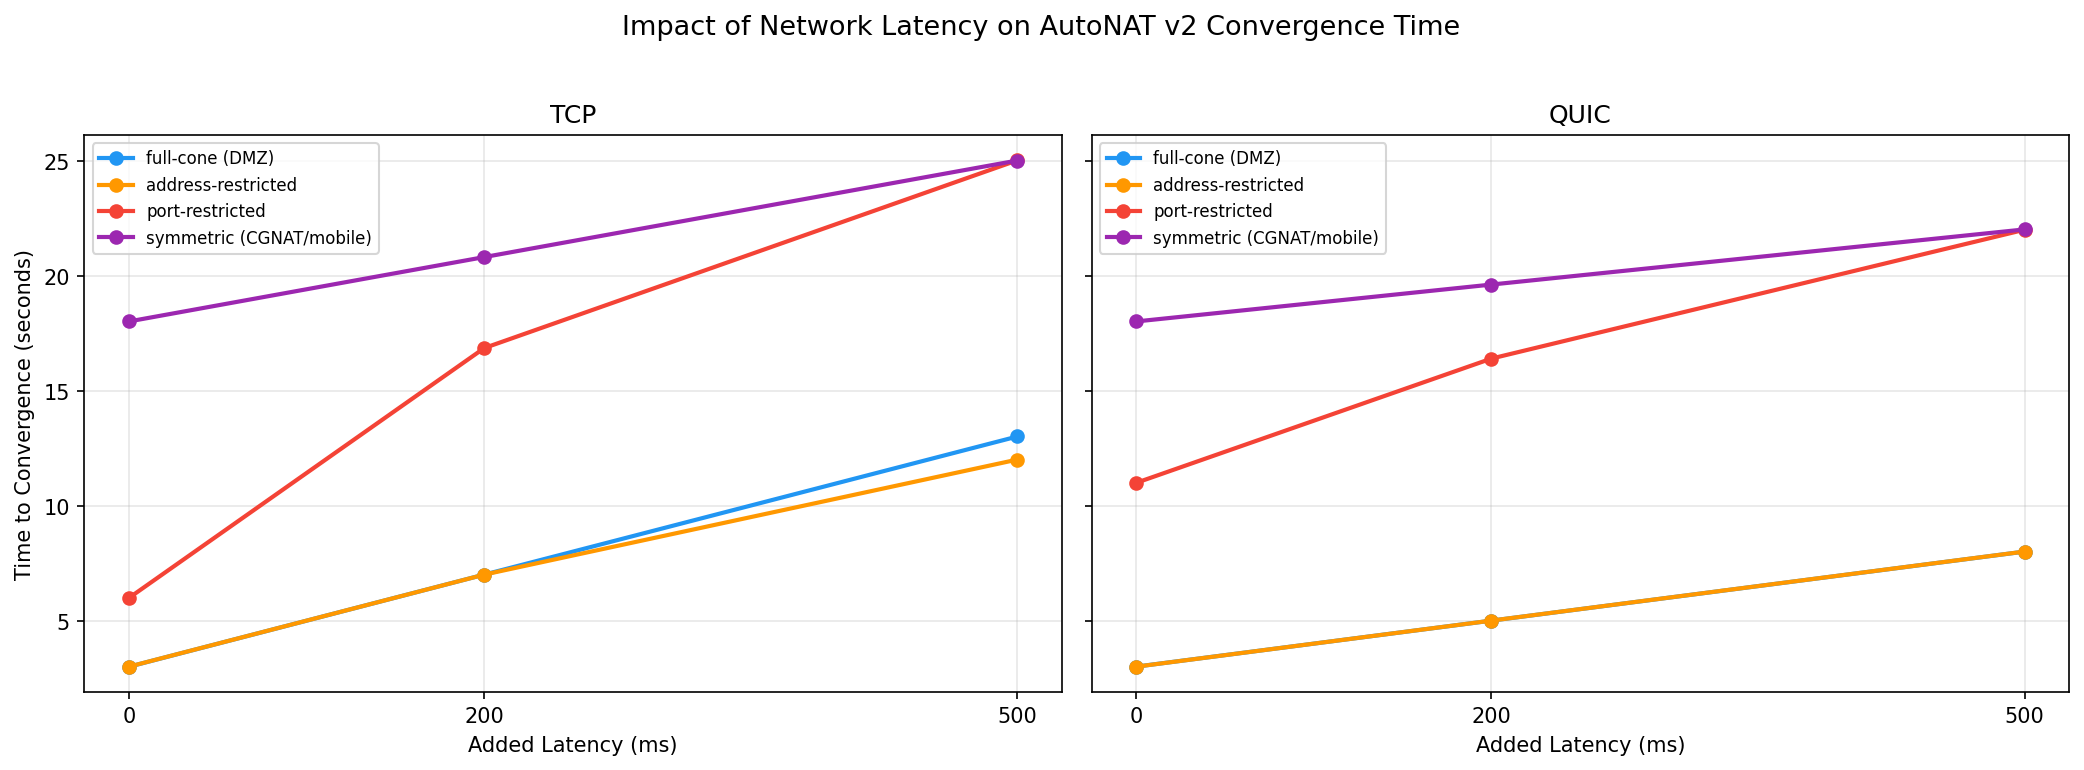
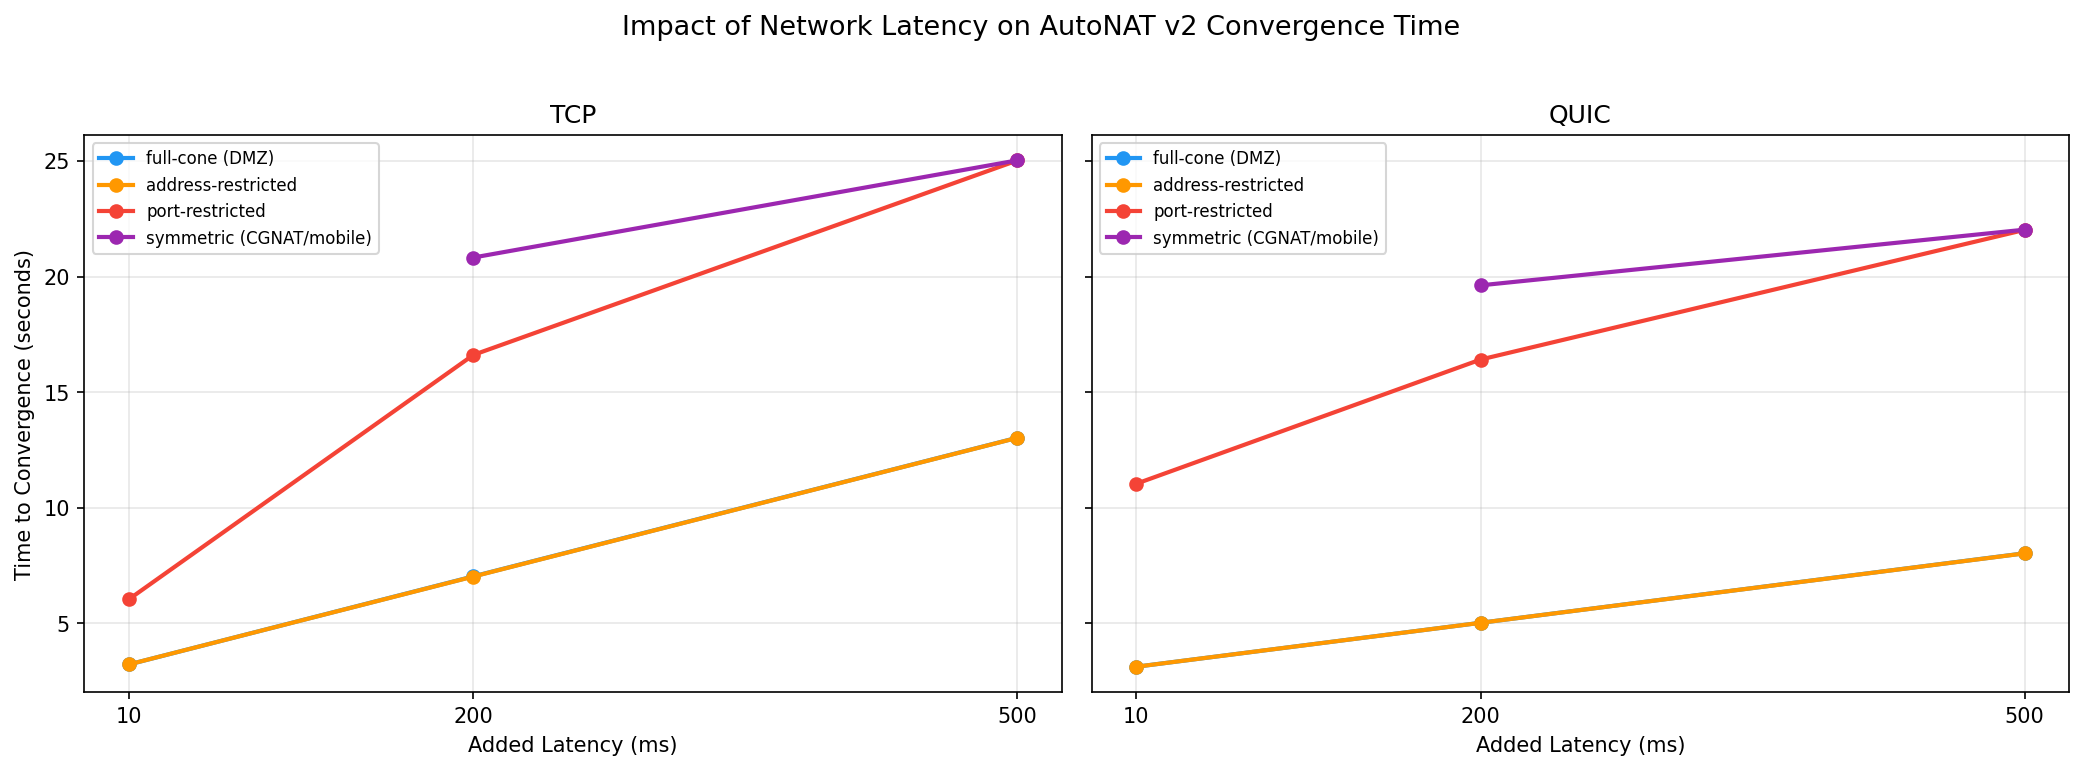
results: regenerate figures with 10ms baseline latency (#91)
* results: regenerate figures with 10ms baseline latency

All figures regenerated from experiment runs using 10ms default
latency instead of 0ms, providing a more realistic baseline.

9 figures updated from new data (2026-03-20 runs on london):
- 01_convergence, 03_latency_impact, 04_packet_loss_impact
- 05_detection_correctness, 07_fnr_fpr_summary
- 08_convergence_heatmap_tcp/quic
- 10_v1_v2_gap_comparison, 11_protocol_overhead

* fix: show 'NOT TRIGGERED' for symmetric NAT in detection correctness heatmap

* fix: fallback to server_count 5/3 for detection correctness when 7 not available

* results: regenerate all figures with symmetric NAT fix

* docs: draft 4 upstream issues for go-libp2p, rust-libp2p, and specs

1. go-libp2p: v2 results not consumed by DHT/AutoRelay (Finding #1/#2)
2. go-libp2p: UDP black hole detector on v2 dialerHost (Finding #5)
3. rust-libp2p: silent PortUse::Reuse fallback (Finding #6)
4. libp2p/specs: ADF false positive documentation (Finding #3)

diff --git a/results/generate_figures.py b/results/generate_figures.py
@@ -352,16 +352,25 @@ def fig_detection_correctness():
     transports = ["tcp", "quic"]
 
     # Build matrix: rows=NAT, cols=transport, value=detected reachability
+    # Values: 1.0=correct, 0.0=wrong, 0.5=unknown/not triggered
     matrix = []
-    labels = []
+    cell_labels = []
 
     for nat in nat_order:
         row = []
+        label_row = []
         for t in transports:
-            fname = f"{nat}-{t}-7-lat10.json"
-            path = os.path.join(result_dir, fname)
-            if not os.path.exists(path):
-                row.append(None)
+            # Try server counts 7, 5, 3 — use first available
+            path = None
+            for sc in [7, 5, 3]:
+                fname = f"{nat}-{t}-{sc}-lat10.json"
+                candidate = os.path.join(result_dir, fname)
+                if os.path.exists(candidate):
+                    path = candidate
+                    break
+            if path is None:
+                row.append(0.5)
+                label_row.append("NO DATA")
                 continue
             spans = parse_spans(path)
             v1_evts, v2_evts = get_convergence(spans)
@@ -371,17 +380,26 @@ def fig_detection_correctness():
             if v1_evts:
                 detected = v1_evts[0]["reachability"]
 
-            expected = "public" if nat in reachable_nats else "private"
+            expected_reachable = nat in reachable_nats
+            expected = "public" if expected_reachable else "private"
             if detected is None:
                 row.append(0.5)  # unknown
+                label_row.append("NOT TRIGGERED\n(v2 never ran)")
             elif detected == expected:
                 row.append(1.0)  # correct
+                label_row.append(f"CORRECT\n({'reachable' if expected_reachable else 'unreachable'})")
             else:
                 row.append(0.0)  # wrong
+                if not expected_reachable:
+                    label_row.append("FALSE POSITIVE\n(detected reachable)")
+                else:
+                    label_row.append("FALSE NEGATIVE\n(detected unreachable)")
         matrix.append(row)
+        cell_labels.append(label_row)
 
     fig, ax = plt.subplots(figsize=(6, 5))
     mat = np.array(matrix, dtype=float)
+    # Custom colormap: red(0)=wrong, yellow(0.5)=unknown, green(1)=correct
     cmap = plt.cm.RdYlGn
     im = ax.imshow(mat, cmap=cmap, vmin=0, vmax=1, aspect="auto")
 
@@ -391,22 +409,11 @@ def fig_detection_correctness():
     ax.set_yticklabels([NAT_LABELS.get(n, n) for n in nat_order])
 
     # Annotate cells
-    for i, nat in enumerate(nat_order):
-        expected_reachable = nat in reachable_nats
-        expected = "reachable" if expected_reachable else "unreachable"
-        for j, t in enumerate(transports):
+    for i in range(len(nat_order)):
+        for j in range(len(transports)):
             val = mat[i, j]
-            if val == 1.0:
-                txt = f"CORRECT\n({expected})"
-            elif val == 0.0:
-                if not expected_reachable:
-                    txt = f"FALSE POSITIVE\n(detected reachable)"
-                else:
-                    txt = f"FALSE NEGATIVE\n(detected unreachable)"
-            else:
-                txt = "NO EVENT"
             color = "black" if val > 0.3 else "white"
-            ax.text(j, i, txt, ha="center", va="center", fontsize=8, color=color)
+            ax.text(j, i, cell_labels[i][j], ha="center", va="center", fontsize=8, color=color)
 
     ax.set_title("Detection Correctness: v1 Reachability (Local Testbed)")
     fig.tight_layout()
